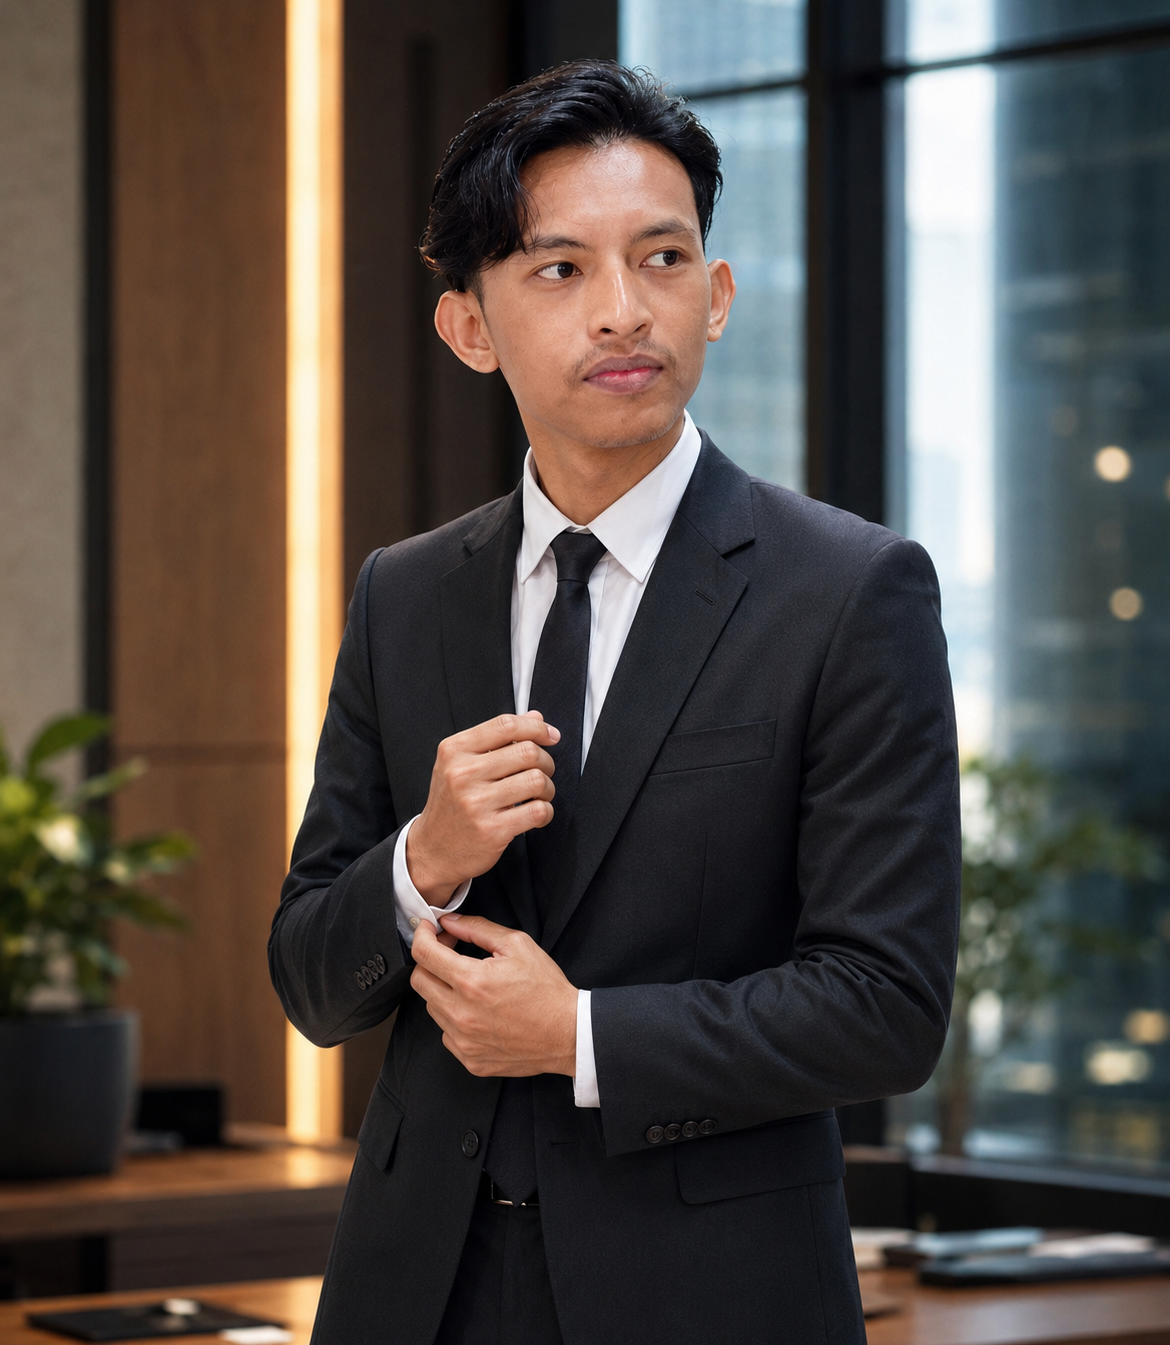
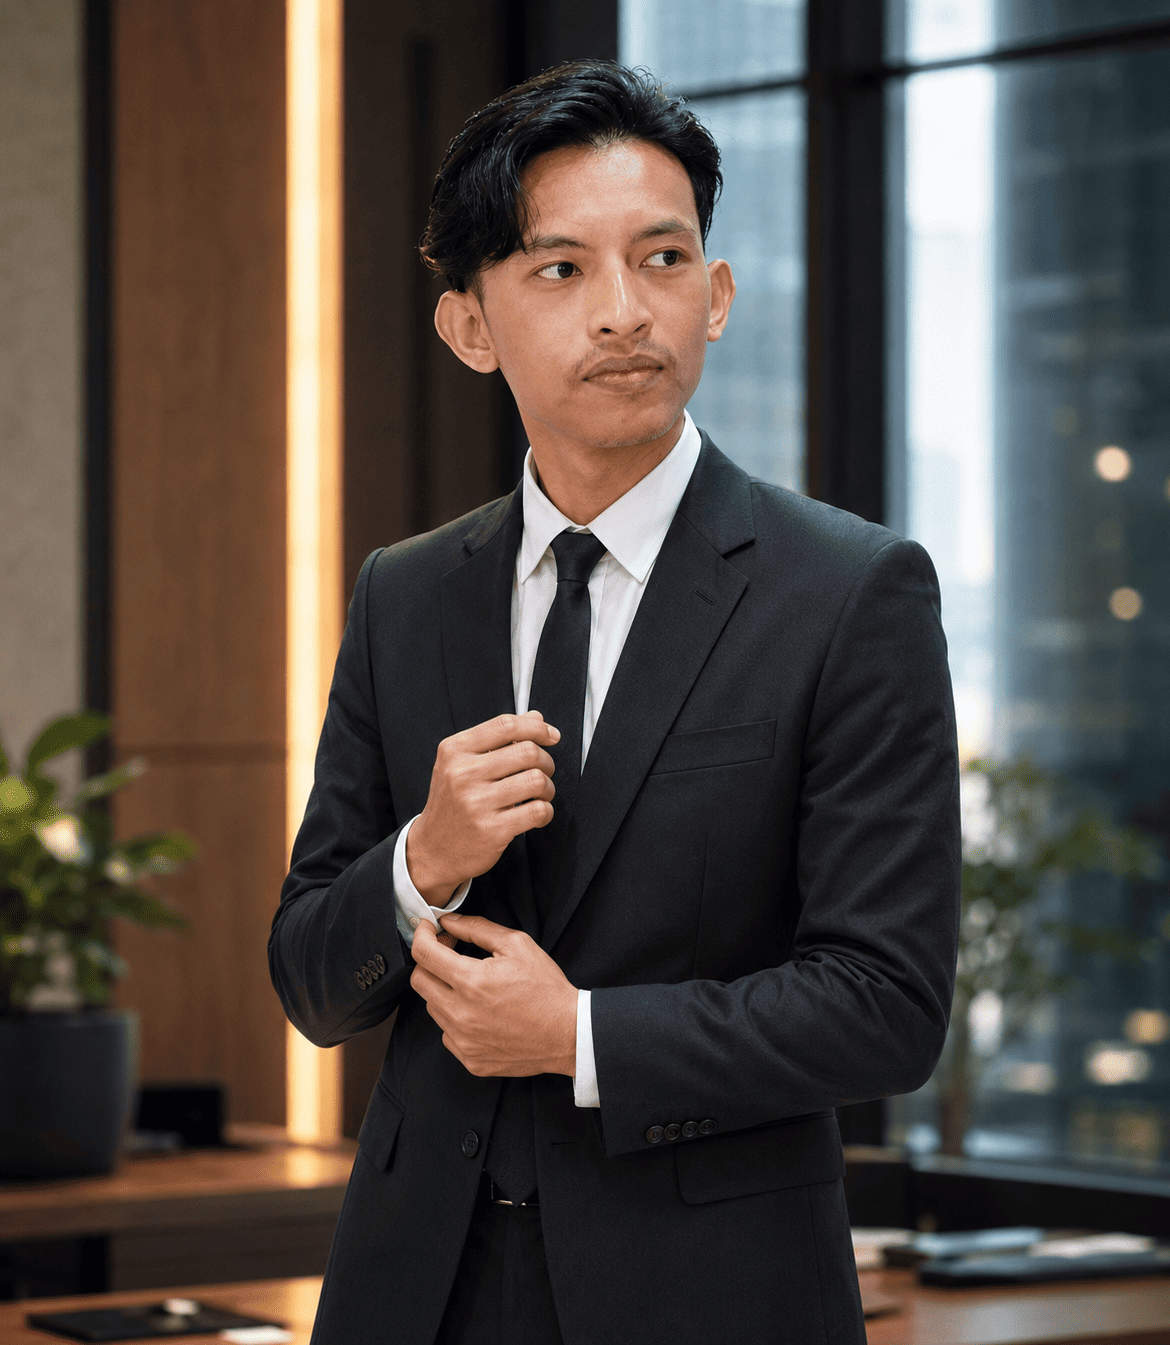
fix:btn next & ...

diff --git a/src/components/ProjectsShowcase.tsx b/src/components/ProjectsShowcase.tsx
@@ -217,10 +217,12 @@ export default function ProjectsShowcase() {
               items-center
               justify-center
 
-              h-11
-              w-11
+              h-10
+              w-10
               md:h-12
               md:w-12
+              py-5
+              
 
               rounded-full
               border
@@ -259,10 +261,11 @@ export default function ProjectsShowcase() {
               items-center
               justify-center
 
-              h-11
-              w-11
+              h-10
+              w-10
               md:h-12
               md:w-12
+              py-5
 
               rounded-full
               border

diff --git a/src/components/Skills.tsx b/src/components/Skills.tsx
@@ -47,7 +47,7 @@ export default function Skills() {
             py-16
             md:py-28
             px-6
-            bg-[url('/images/bgfokus.webp')]                                  
+            bg-[url('/images/cbgfokus.webp')]                                             
             bg-cover
             bg-center
             bg-no-repeat